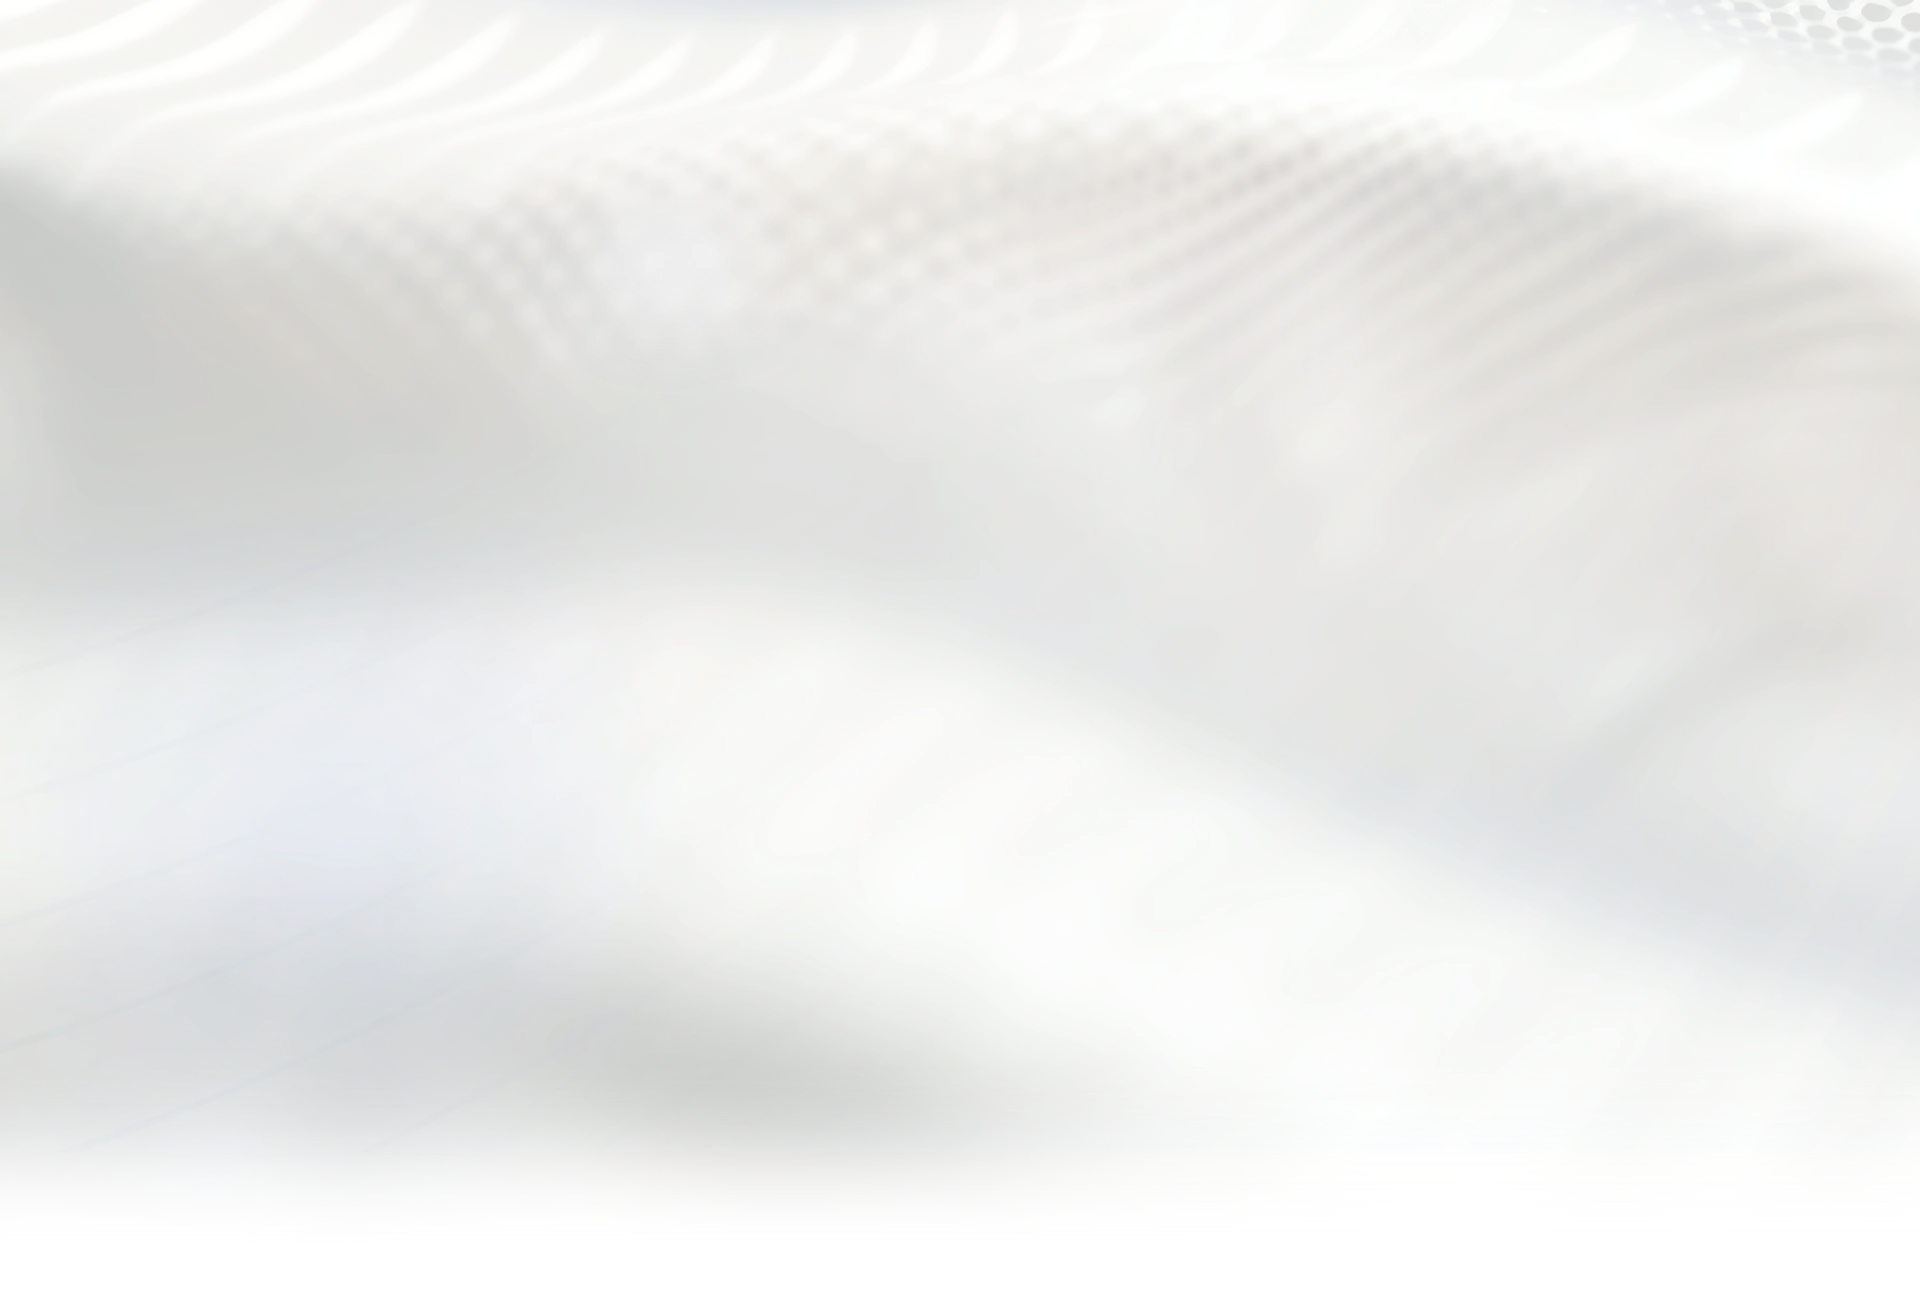
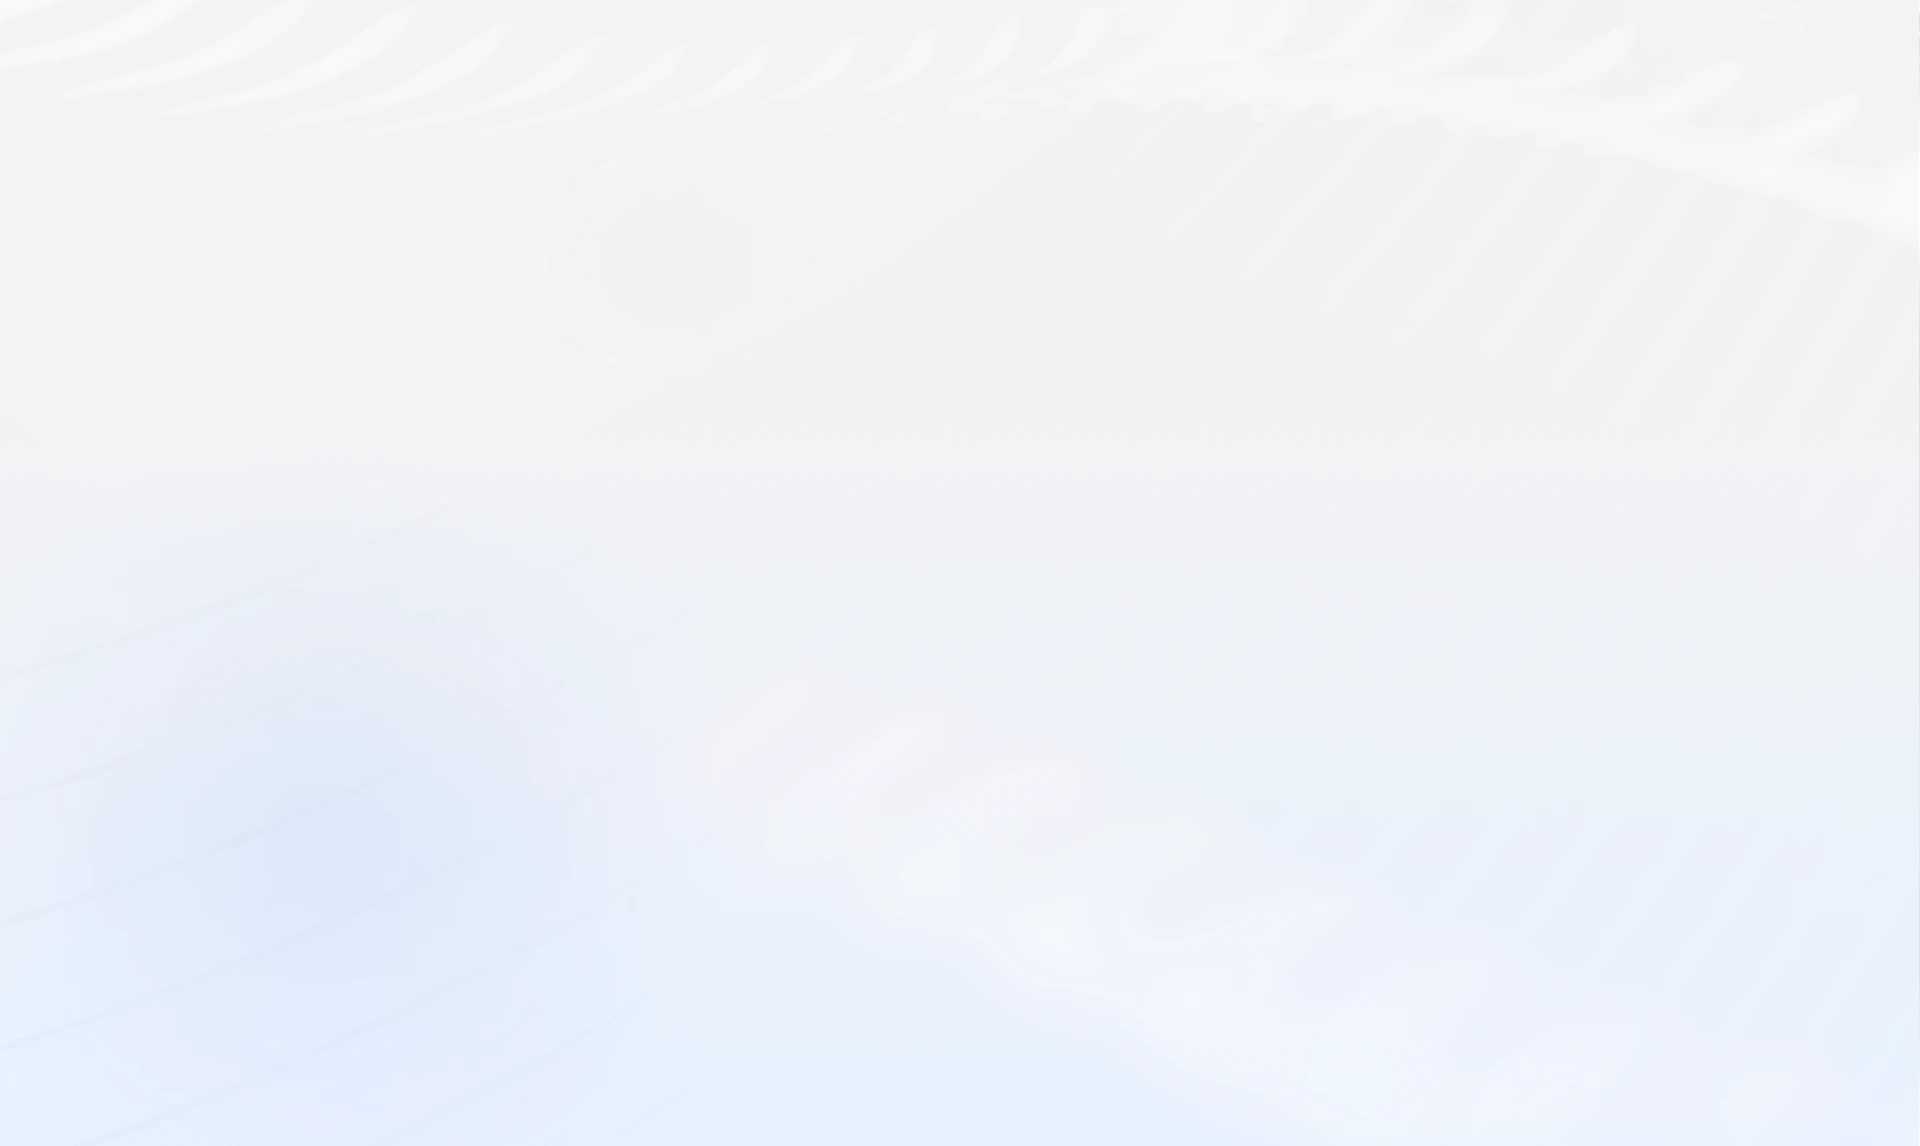
faq

diff --git a/faq.html b/faq.html
@@ -191,114 +191,114 @@
 					<div class="top-spacing"></div>
 
                 <h1 class="header-section xxxl fade-in-element">Frequently Asked Questions</h1>
-            <p class="sub-title xxxs fade-in-reverse">Find everything you need to know about our products, compatibility,<br class="hide-mobile"/> setup, shipping, and more — all in one place.</p>
-            <section class="accordion-section">
-                <div class="blured-circle-3 blured-circle desktop-only"></div>
-                <div class="accordion js-accordion">
-                    <div class="accordion__header">
-                        <h4 class="m">What products does AnyHDD offer?</h4>
-                        <svg  viewBox="0 0 26 26" fill="none" xmlns="http://www.w3.org/2000/svg">
-                            <path d="M12.7676 3V22.525" class="hide-open" stroke="#052F5A" stroke-width="5.53778" stroke-linecap="round" stroke-linejoin="round"/>
-                            <path d="M3 12.7617H22.525" stroke="#052F5A" stroke-width="5.53778" stroke-linecap="round" stroke-linejoin="round"/>
-                        </svg>
+				<p class="sub-title xxxs fade-in-reverse">Find everything you need to know about our products, compatibility,<br class="hide-mobile"/> setup, shipping, and more — all in one place.</p>
+				<section class="accordion-section">
+					<div class="blured-circle-3 blured-circle desktop-only"></div>
+					<div class="accordion js-accordion">
+						<div class="accordion__header">
+							<h4 class="m">What products does AnyHDD offer?</h4>
+							<svg  viewBox="0 0 26 26" fill="none" xmlns="http://www.w3.org/2000/svg">
+								<path d="M12.7676 3V22.525" class="hide-open" stroke="#052F5A" stroke-width="5.53778" stroke-linecap="round" stroke-linejoin="round"/>
+								<path d="M3 12.7617H22.525" stroke="#052F5A" stroke-width="5.53778" stroke-linecap="round" stroke-linejoin="round"/>
+							</svg>
 
-	</div>
-	<div class="accordion__body">
-		<div class="radial_gradient_divider"></div>
-		<p class="xs"> 
-			Yes, all our products include an official warranty. The coverage period varies by product, but typically ranges from 12 to 24 months against manufacturing defects.
-		</p>
-	</div>
-	</div>
+						</div>
+						<div class="accordion__body">
+							<div class="radial_gradient_divider"></div>
+							<p class="xs"> 
+								Yes, all our products include an official warranty. The coverage period varies by product, but typically ranges from 12 to 24 months against manufacturing defects.
+							</p>
+						</div>
+					</div>
 
-	<div class="accordion-wrapper">
-		<div class="accordion js-accordion">
-			<div class="accordion__header">
-				<h4 class="m">Do the products come with a warranty?</h4>
-				<svg  viewBox="0 0 26 26" fill="none" xmlns="http://www.w3.org/2000/svg">
-                    <path d="M12.7676 3V22.525" class="hide-open" stroke="#052F5A" stroke-width="5.53778" stroke-linecap="round" stroke-linejoin="round"/>
-                    <path d="M3 12.7617H22.525" stroke="#052F5A" stroke-width="5.53778" stroke-linecap="round" stroke-linejoin="round"/>
-                </svg>
+				<div class="accordion-wrapper">
+					<div class="accordion js-accordion">
+						<div class="accordion__header">
+							<h4 class="m">Do the products come with a warranty?</h4>
+							<svg  viewBox="0 0 26 26" fill="none" xmlns="http://www.w3.org/2000/svg">
+								<path d="M12.7676 3V22.525" class="hide-open" stroke="#052F5A" stroke-width="5.53778" stroke-linecap="round" stroke-linejoin="round"/>
+								<path d="M3 12.7617H22.525" stroke="#052F5A" stroke-width="5.53778" stroke-linecap="round" stroke-linejoin="round"/>
+							</svg>
 
-	</div>
-	<div class="accordion__body">
-		<div class="radial_gradient_divider"></div>
-			<p class="xs"> 
-				Yes, all our products include an official warranty. The coverage period varies by product, but typically ranges from 12 to 24 months against manufacturing defects.
-		</p>
-	</div>
-	</div>
+				</div>
+				<div class="accordion__body">
+					<div class="radial_gradient_divider"></div>
+						<p class="xs"> 
+							Yes, all our products include an official warranty. The coverage period varies by product, but typically ranges from 12 to 24 months against manufacturing defects.
+					</p>
+				</div>
+				</div>
 
-	<div class="accordion js-accordion">
-		<div class="accordion__header">
-			<h4 class="m">How do I know if a product is compatible with my device?</h4>
-			<svg  viewBox="0 0 26 26" fill="none" xmlns="http://www.w3.org/2000/svg">
-                <path d="M12.7676 3V22.525" class="hide-open" stroke="#052F5A" stroke-width="5.53778" stroke-linecap="round" stroke-linejoin="round"/>
-                <path d="M3 12.7617H22.525" stroke="#052F5A" stroke-width="5.53778" stroke-linecap="round" stroke-linejoin="round"/>
-            </svg>
+				<div class="accordion js-accordion">
+					<div class="accordion__header">
+						<h4 class="m">How do I know if a product is compatible with my device?</h4>
+						<svg  viewBox="0 0 26 26" fill="none" xmlns="http://www.w3.org/2000/svg">
+							<path d="M12.7676 3V22.525" class="hide-open" stroke="#052F5A" stroke-width="5.53778" stroke-linecap="round" stroke-linejoin="round"/>
+							<path d="M3 12.7617H22.525" stroke="#052F5A" stroke-width="5.53778" stroke-linecap="round" stroke-linejoin="round"/>
+						</svg>
 
-	</div>
-	<div class="accordion__body">
-		<div class="radial_gradient_divider"></div>
-			<p class="xs"> 
-				Yes, all our products include an official warranty. The coverage period varies by product, but typically ranges from 12 to 24 months against manufacturing defects.
-		</p>
-	</div>
-	</div>
+				</div>
+				<div class="accordion__body">
+					<div class="radial_gradient_divider"></div>
+						<p class="xs"> 
+							Yes, all our products include an official warranty. The coverage period varies by product, but typically ranges from 12 to 24 months against manufacturing defects.
+					</p>
+				</div>
+				</div>
 
-	<div class="accordion js-accordion">
-		<div class="accordion__header">
-			<h4 class="m">Do you ship nationwide?</h4>
-			<svg  viewBox="0 0 26 26" fill="none" xmlns="http://www.w3.org/2000/svg">
-                <path d="M12.7676 3V22.525" class="hide-open" stroke="#052F5A" stroke-width="5.53778" stroke-linecap="round" stroke-linejoin="round"/>
-                <path d="M3 12.7617H22.525" stroke="#052F5A" stroke-width="5.53778" stroke-linecap="round" stroke-linejoin="round"/>
-            </svg>
+				<div class="accordion js-accordion">
+					<div class="accordion__header">
+						<h4 class="m">Do you ship nationwide?</h4>
+						<svg  viewBox="0 0 26 26" fill="none" xmlns="http://www.w3.org/2000/svg">
+							<path d="M12.7676 3V22.525" class="hide-open" stroke="#052F5A" stroke-width="5.53778" stroke-linecap="round" stroke-linejoin="round"/>
+							<path d="M3 12.7617H22.525" stroke="#052F5A" stroke-width="5.53778" stroke-linecap="round" stroke-linejoin="round"/>
+						</svg>
 
-	</div>
-	<div class="accordion__body">
-		<div class="radial_gradient_divider"></div>
-		<p class="xs"> 
-			Yes, all our products include an official warranty. The coverage period varies by product, but typically ranges from 12 to 24 months against manufacturing defects.
-		</p>
-	</div>
-	</div>
+				</div>
+				<div class="accordion__body">
+					<div class="radial_gradient_divider"></div>
+					<p class="xs"> 
+						Yes, all our products include an official warranty. The coverage period varies by product, but typically ranges from 12 to 24 months against manufacturing defects.
+					</p>
+				</div>
+				</div>
 
-	<div class="accordion js-accordion">
-		<div class="accordion__header">
-			<h4 class="m">How long does shipping take?</h4>
-			<svg  viewBox="0 0 26 26" fill="none" xmlns="http://www.w3.org/2000/svg">
-                <path d="M12.7676 3V22.525" class="hide-open" stroke="#052F5A" stroke-width="5.53778" stroke-linecap="round" stroke-linejoin="round"/>
-                <path d="M3 12.7617H22.525" stroke="#052F5A" stroke-width="5.53778" stroke-linecap="round" stroke-linejoin="round"/>
-            </svg>
+				<div class="accordion js-accordion">
+					<div class="accordion__header">
+						<h4 class="m">How long does shipping take?</h4>
+						<svg  viewBox="0 0 26 26" fill="none" xmlns="http://www.w3.org/2000/svg">
+							<path d="M12.7676 3V22.525" class="hide-open" stroke="#052F5A" stroke-width="5.53778" stroke-linecap="round" stroke-linejoin="round"/>
+							<path d="M3 12.7617H22.525" stroke="#052F5A" stroke-width="5.53778" stroke-linecap="round" stroke-linejoin="round"/>
+						</svg>
 
-	</div>
-	<div class="accordion__body">
-		<div class="radial_gradient_divider"></div>
-		<p class="xs"> 
-			Yes, all our products include an official warranty. The coverage period varies by product, but typically ranges from 12 to 24 months against manufacturing defects.
-		</p>
-	</div>
-	</div>
+				</div>
+				<div class="accordion__body">
+					<div class="radial_gradient_divider"></div>
+					<p class="xs"> 
+						Yes, all our products include an official warranty. The coverage period varies by product, but typically ranges from 12 to 24 months against manufacturing defects.
+					</p>
+				</div>
+				</div>
 
-	<div class="accordion js-accordion">
-		<div class="accordion__header">
-			<h4 class="m">Can I return or exchange a product?</h4>
-			<svg  viewBox="0 0 26 26" fill="none" xmlns="http://www.w3.org/2000/svg">
-                <path d="M12.7676 3V22.525" class="hide-open" stroke="#052F5A" stroke-width="5.53778" stroke-linecap="round" stroke-linejoin="round"/>
-                <path d="M3 12.7617H22.525" stroke="#052F5A" stroke-width="5.53778" stroke-linecap="round" stroke-linejoin="round"/>
-            </svg>
+				<div class="accordion js-accordion">
+					<div class="accordion__header">
+						<h4 class="m">Can I return or exchange a product?</h4>
+						<svg  viewBox="0 0 26 26" fill="none" xmlns="http://www.w3.org/2000/svg">
+							<path d="M12.7676 3V22.525" class="hide-open" stroke="#052F5A" stroke-width="5.53778" stroke-linecap="round" stroke-linejoin="round"/>
+							<path d="M3 12.7617H22.525" stroke="#052F5A" stroke-width="5.53778" stroke-linecap="round" stroke-linejoin="round"/>
+						</svg>
 
-	</div>
-	<div class="accordion__body">
-		<div class="radial_gradient_divider"></div>
-		<p class="xs"> 
-			Yes, all our products include an official warranty. The coverage period varies by product, but typically ranges from 12 to 24 months against manufacturing defects.
-		</p>
-	</div>
-	</div>
+				</div>
+				<div class="accordion__body">
+					<div class="radial_gradient_divider"></div>
+					<p class="xs"> 
+						Yes, all our products include an official warranty. The coverage period varies by product, but typically ranges from 12 to 24 months against manufacturing defects.
+					</p>
+				</div>
+				</div>
 
 
-	</div>
+			</div>
 	</section>
 	<footer>
 	<div class="overlay no-desk">

diff --git a/src/css/faq/faq.scss b/src/css/faq/faq.scss
@@ -5,6 +5,7 @@
 	background-attachment: fixed;
 	background-position: center;
 	@media only screen and (max-width: 767px) {
+		overflow-x: clip;
 		background-image: none;
 		background-color: rgba(242, 242, 244, 1);
 		.hide-mobile{
@@ -20,6 +21,13 @@
 		text-align: center;
 		margin-top: 3%;
 		position: relative;
+
+		@media only screen and (max-width: 800px) and (min-width: 768px) {
+			font-size:3.5rem;
+		}
+		@media only screen and (max-width: 768px) and (min-width: 481px) {
+			font-size:3rem;
+		}
 	}
 
 	.header-section::before{
@@ -78,8 +86,44 @@
 		color: var(--text-gray);
 		text-align: center;
 		margin: 1.5% auto;
+		font-size: 1.25rem;
+
 		@media only screen and (max-width: 767px) {
+			width:55%;
+			font-size: 1.3rem;
+		}
+		@media only screen and (max-width: 480px) {
+			width:69%;
+			font-size: 1.5rem;
+			line-height: 1.5em;
+		}
+		@media only screen and (max-width: 460px) {
 			width: 78%;
+			font-size: 1.4rem;
+			
+		}
+
+		@media only screen and (max-width: 460px) {
+			width: 70%;
+			
+		}
+		@media only screen and (max-width:390px) {
+			width: 80%;
+			font-size: 1.4rem;
+		}
+		@media only screen and (max-width:390px) {
+			width: 76%;
+			font-size: 1.2rem;
+		}
+		@media only screen and (min-width:2150px) {
+			font-size: 1.1vw;
+		}
+		@media only screen and (min-width:3250px) {
+			font-size: 1.2vw;
+		}
+
+		@media only screen and (min-width:768px) and (max-width:980px) and (max-height:600px) and (min-height:480px) {
+			font-size: 1.3vw;
 		}
 	}
 

diff --git a/src/css/faq/accordion.scss b/src/css/faq/accordion.scss
@@ -3,7 +3,7 @@
     z-index: 1;
     position: relative;
     @media only screen and (max-width: 767px) {
-      padding-top: 20%;
+      padding-top: 15%;
       padding-inline: 15px;
       padding-bottom: 15%;
     }
